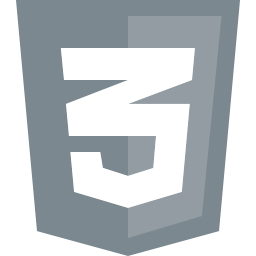
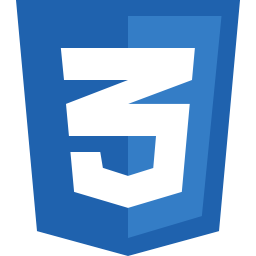
complete new grey look

diff --git a/alicemiddleman/source/stylesheets/styling2.css b/alicemiddleman/source/stylesheets/styling2.css
@@ -99,7 +99,7 @@ section{
 	background-size: 340px;
 	background-repeat: no-repeat;
   	height: 320px;
-  	margin-bottom: 2em;
+  	margin-bottom: 4em;
 }
 
 .gradient-bar {
@@ -142,8 +142,9 @@ section{
 
 .email{
 	display: none;
-	color: #f0f0f0;
+	color: #e6ebee;
 	border-color: yellow;
+	margin-top: 0.8em;
 }
 
 @media (min-width: 402px){
@@ -336,61 +337,46 @@ section{
 
 /*-------------testimonials-----------------------------------*/
 #testimonials-box{
-	/*background-color: #f0f0f0;*/
-/*	background-image: linear-gradient(to right, rgba(132, 156, 168, 1), rgba(132, 156, 168, 0));
-*/	/*background-color: rgba(132, 156, 168, 0.2);*/
-/*background-color: rgba(67, 85, 94, 0.2);*/
-/*background-color: rgba(132, 156, 168, 0.2);
-*//*background-color: #e6ebee;*/
-background-color: #ffffff;
+	padding-top: 2em;
+	padding-bottom: 4em;
+/*background-color: #e6ebee;*/
 
 
 
 
-
-/*	padding-top: 1em;
-	padding-bottom: 1em;*/
+	background: transparent url('../images/ipad_lung_light.png');
+	background-position: center;
+	/*background-size: contain;*/
+	background-repeat: no-repeat;
+/*	background-attachment: fixed;*/
 }
-
-/*.testimonials h2 {
-	color: #2a353b;
-}*/
-
-
-/*.testimonials{
-	margin: auto;
-	max-width: 80em;
-}*/
-
-/*.boris{
-
-	padding-left: 1em;
-	padding-right: 1em;
-}*/
 
 
 #boris h4{
-	/*color: #666666;*/
 	margin-top: 2em;
 
 }
 
-.prof{
-	/*color: #849ca8;*/
-	/*font-size: 0.9em;*/
-	/*color: #929292;*/
-	/*font-family: 'Open Sans', sans-serif;*/
+#testimonial-text{
+	background-color: rgba(255, 255, 255, 0.9);
+	padding:  0 1em 0.5em 1em;
+	margin-top: 2em;
+	margin-bottom: 4em;
+
+
 }
+
 
 #testimonial-text h2{
-
+	padding-top: 0.5em;
 	color: #2a353b;
-}
 
+}
 
 
 #testimonial-text h4{
 	color: #2a353b;
+
 }
 
 .prof span{
@@ -429,6 +415,7 @@ background-color: #ffffff;
 
 	/*background-color: #43555e;*/
 	background-color: #ffffff;
+	margin-bottom: 4em;
 }
 
 
@@ -498,10 +485,11 @@ background-color: #ffffff;
 
 
 /*-----------------------------portfolio-----------------------------------*/
-/*#portfolio-box{
-	padding-top: 1em;
-	padding-bottom: 1em;
-}*/
+#portfolio-box{
+	padding-bottom: 0;
+	background-color: #e6ebee;
+	/*border: 2px solid #43555e;*/
+}
 
 
 
@@ -551,20 +539,29 @@ background-color: #ffffff;
 
 	/*background-color: rgba(67, 85, 94, 1)*/
 	background-color: #2a353b;
+/*	box-sizing: border-box;
+	border: 0.5px solid #43555e;*/
 }
 
 .box-2{
-	background-color: rgba(67, 85, 94, 0.2);
+	background-color: #ffffff;
+	background-color: #e6ebee;
+/*	box-sizing: border-box;
+	border: 0.5px solid #43555e;*/
 }
 
 .box-3{
 
 	/*background-color: rgba(67, 85, 94, 0.5)*/
 	background-color: #849CA8;
+/*	box-sizing: border-box;
+	border: 0.5px solid #43555e;*/
 }
 
 .box-4{
-	background-color: rgba(67, 85, 94, 0.1);
+	background-color: #e6ebee;
+/*	box-sizing: border-box;
+	border: 0.5px solid #43555e;*/
 }
 
 @media (min-width: 35.5em){
@@ -592,6 +589,11 @@ background-color: #ffffff;
 /*---------------------About-----------------------------*/
 
 
+#about-box{
+	margin-top: 2em;
+	margin-bottom: 2em;
+}
+/*
 #about-box h3{
 	color: #849ca8;
 
@@ -599,7 +601,7 @@ background-color: #ffffff;
 
 #about-box p{
 	color: #849ca8;
-}
+}*/
 
 @media (min-width: 48em){
 	#med-para{
@@ -611,7 +613,9 @@ background-color: #ffffff;
 
 /*-------------------------icons----------------------------*/
 
-
+#icon{
+	margin-top: 1.2em;
+}
 
 
 #icon-text img{
@@ -670,13 +674,14 @@ background-color: #ffffff;
 /*-----------------contacts--------------------*/
 
 #contact-box {
+	padding-top: 2em;
 
 /*	max-width: 80em;
 	margin: auto;
 	padding: 1em 1em 3em 1em;*/
 	/*background-color: #f0f0f0;*/
 	/*background-color: rgba(132, 156, 168, 0.2);*/
-	background-color: #e6ebee;
+	background-color: #ffffff;
 }
 
 #name h2{
@@ -746,7 +751,10 @@ background-color: #ffffff;
 .footer{
 	/*background-color: #6d6d6d;*/
 	/*background-color: #2c2c2c;*/
-	background-color: #43555e;
+	/*background-color: #43555e;*/
+		background-image: linear-gradient(to right, #43555e, #849ca8);
+
+	background-color: #849ca8;
 
 	
 }
